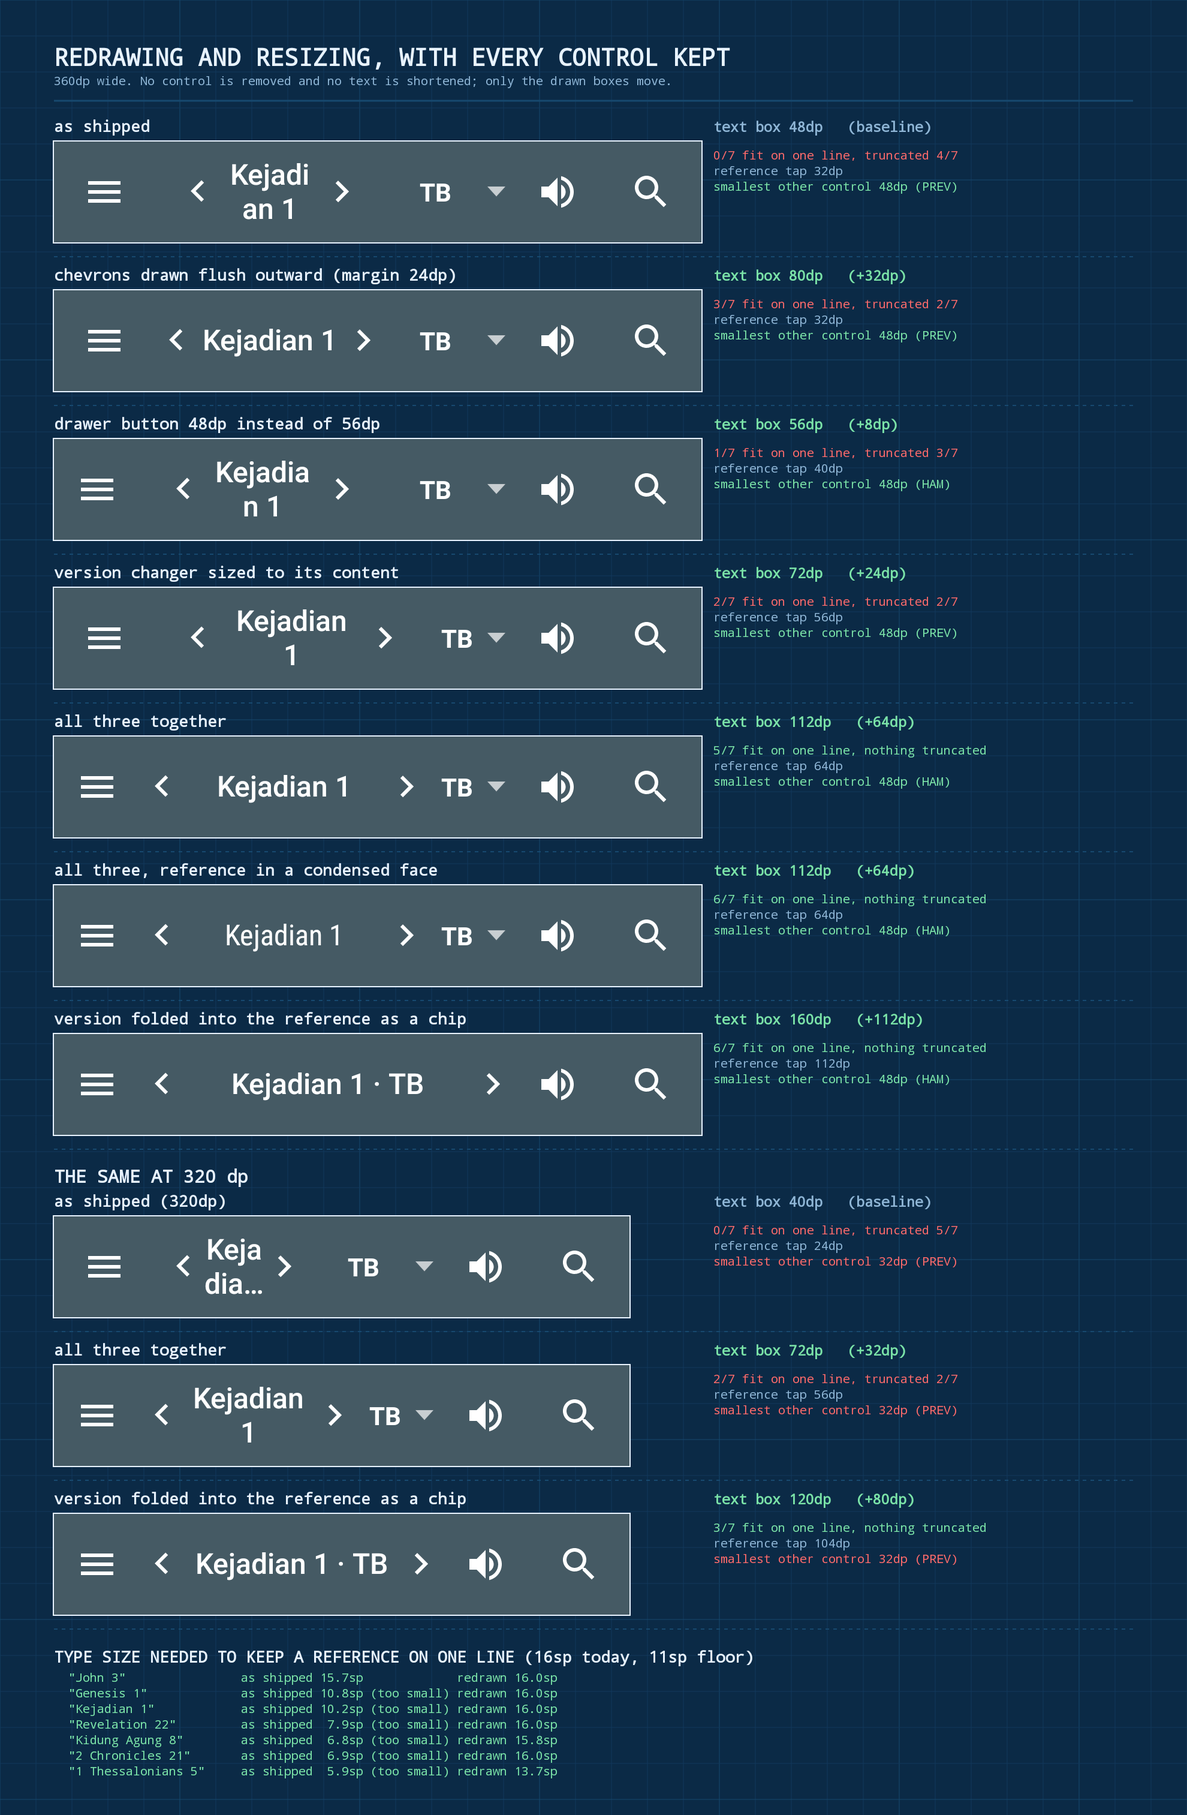
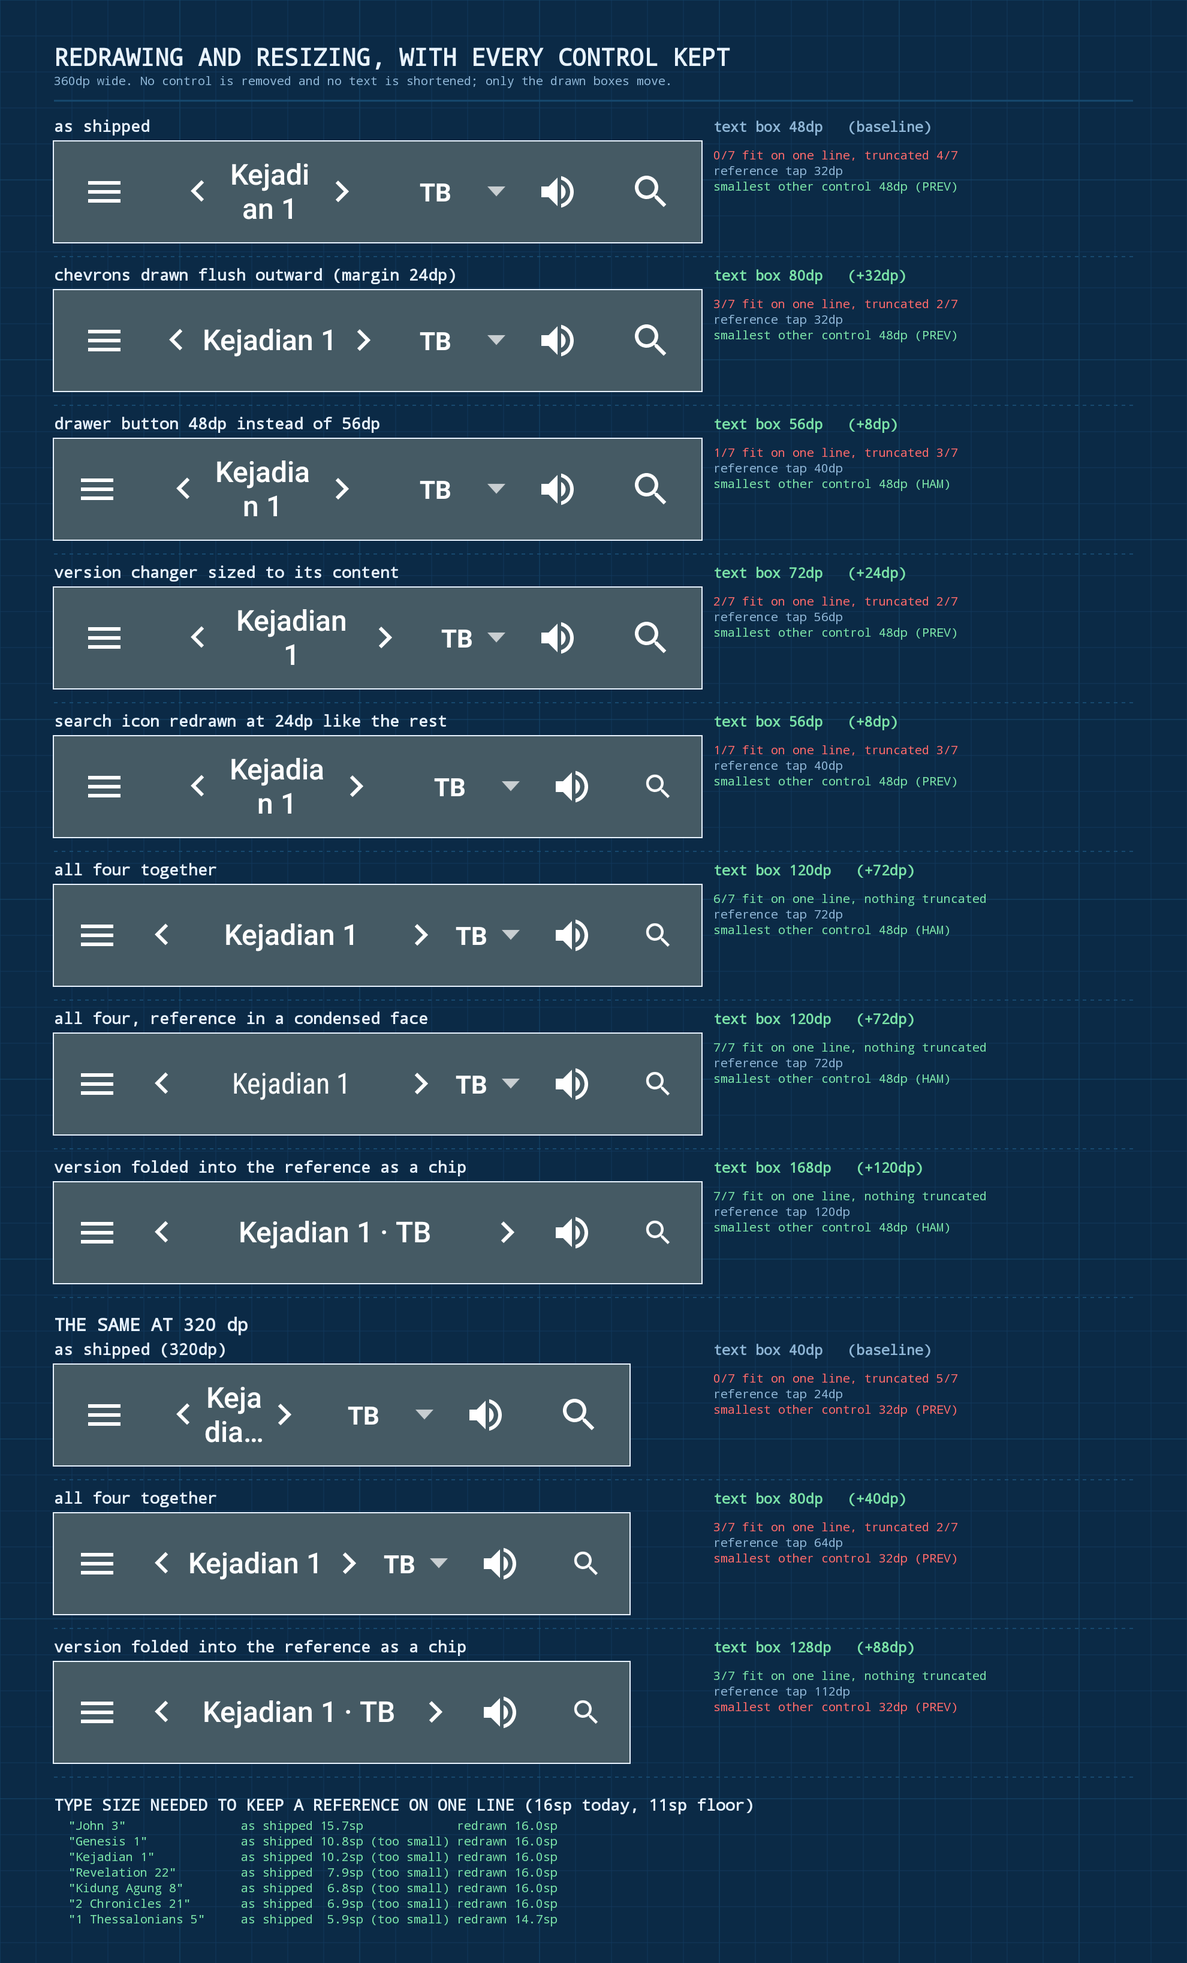
Explain the 56dp drawer and search buttons, and correct the menu finding
Both are 56dp where every other control in the bar is 48dp, for two
unrelated reasons, and neither is a design decision.

The drawer button takes its width from a literal minWidth of 56dp in
Base.Widget.AppCompat.Toolbar.Button.Navigation. It is not ?actionBarSize:
on an sw600dp screen the bar is 64dp tall and the button is still 56dp. It
wraps a 24dp icon.

The search button is wide because of its icon asset.
Widget.AppCompat.ActionButton gives an item minWidth 48dp plus 12dp of
padding per side, so an action item is max(48dp, icon + 24dp). The audio
icon is a 24dp vector and lands on 48dp; ic_menu_search is a 32dp PNG from
the pre-Material icon set and lands on 56dp. Probing with extra menu items
confirms the rule: every item with a 24dp icon is 48dp, and only the search
item is not.

This corrects the earlier claim that the action menu's extra 8dp came from
ActionMenuView rounding its cell size up into the leftover width. It does
not. The menu is exactly as wide as its items ask for, and the items are as
wide as their icons ask for.

Redrawing the search icon at 24dp is therefore worth 8dp to the reference,
measured, and it is now part of the redraw package: 48dp to 120dp of text
box at 360dp with every control at 48dp and nothing truncated.

A new test reports the widths and guards the rule that an action item is
max(48dp, icon + horizontal padding), so it stays true whichever asset
ships. The blueprint now labels each icon-driven control with its icon size.
[…]

Changed region(s): [[0.0308, 0.0, 0.801, 0.9941], [0.5854, 0.6523, 0.8318, 0.8698], [0.5545, 0.9009, 0.6162, 0.9319]]

diff --git a/Alkitab/src/test/java/yuku/alkitab/base/widget/ReaderToolbarSpaceAuditTest.kt b/Alkitab/src/test/java/yuku/alkitab/base/widget/ReaderToolbarSpaceAuditTest.kt
@@ -4,6 +4,7 @@ import android.app.Activity
 import android.graphics.Bitmap
 import android.graphics.Canvas
 import android.graphics.Color
+import android.graphics.drawable.BitmapDrawable
 import android.graphics.DashPathEffect
 import android.graphics.Paint
 import android.graphics.Path
@@ -19,6 +20,7 @@ import androidx.appcompat.app.AppCompatActivity
 import androidx.appcompat.view.menu.MenuView
 import androidx.appcompat.widget.ActionMenuView
 import androidx.appcompat.widget.Toolbar
+import androidx.core.content.ContextCompat
 import androidx.core.view.children
 import androidx.test.core.app.ApplicationProvider
 import java.io.File
@@ -213,11 +215,12 @@ class ReaderToolbarSpaceAuditTest {
         val navButton = toolbar.children.filterIsInstance<ImageButton>().firstOrNull()
         assertNotNull("the up/drawer button must be present in the toolbar", navButton)
         navButton!!
+        val navIconDp = dpStr(toolbar.navigationIcon?.intrinsicWidth ?: 0)
         slots += Slot(
             "hamburger", "HAM", "Drawer (hamburger)",
             boundsIn(toolbar, navButton), boundsIn(toolbar, navButton),
             SLOT_COLORS.getValue("hamburger"),
-            "Toolbar navigation button, 24dp icon",
+            "${navIconDp}dp icon in AppCompat's 56dp minWidth",
         )
 
         val leftRect = boundsIn(toolbar, bLeft).takeIf { bLeft.visibility != View.GONE }
@@ -278,13 +281,17 @@ class ReaderToolbarSpaceAuditTest {
                 title,
                 rect, rect,
                 SLOT_COLORS[key] ?: SLOT_COLORS.getValue("menu"),
-                "action menu item",
+                "${dpStr(iconWidthOf(child))}dp icon + 12dp padding per side",
             )
         }
 
         slots.sortBy { it.drawn.left }
         return slots
     }
+
+    /** Intrinsic width of the icon an action menu item draws. */
+    private fun iconWidthOf(child: View): Int =
+        (child as? MenuView.ItemView)?.itemData?.icon?.intrinsicWidth ?: 0
 
     private fun measurePanel(widthDp: Int, reference: String, versionInitials: String): Panel {
         RuntimeEnvironment.setQualifiers("sw${widthDp}dp-w${widthDp}dp-h640dp-port-xxhdpi")
@@ -1055,6 +1062,23 @@ class ReaderToolbarSpaceAuditTest {
         a.findViewById<TextView>(R.id.bVersion).visibility = View.GONE
     }
 
+    /**
+     * Redraws the search icon at [dpSize] so the action item stops being wider
+     * than its 48dp slot. The asset that ships is 32dp, which is where the
+     * item's extra 8dp comes from.
+     */
+    private fun resizeSearchIcon(a: ToolbarAuditHostActivity, dpSize: Int) {
+        val item = a.findViewById<Toolbar>(R.id.toolbar).menu.findItem(R.id.menuSearch) ?: return
+        val src = ContextCompat.getDrawable(a, R.drawable.ic_menu_search) ?: return
+        val full = Bitmap.createBitmap(src.intrinsicWidth, src.intrinsicHeight, Bitmap.Config.ARGB_8888)
+        src.setBounds(0, 0, src.intrinsicWidth, src.intrinsicHeight)
+        src.draw(Canvas(full))
+        val scaled = Bitmap.createScaledBitmap(full, px(dpSize), px(dpSize), true).apply {
+            density = a.resources.displayMetrics.densityDpi
+        }
+        item.icon = BitmapDrawable(a.resources, scaled)
+    }
+
     private fun condensedReference(a: ToolbarAuditHostActivity) {
         a.findViewById<GotoButton>(R.id.bGoto).typeface =
             Typeface.create("sans-serif-condensed", Typeface.NORMAL)
@@ -1064,6 +1088,7 @@ class ReaderToolbarSpaceAuditTest {
         chevronsFlush(a, 24)
         compactNavButton(a, 48)
         shrinkVersion(a, 48)
+        resizeSearchIcon(a, 24)
     }
 
     /**
@@ -1112,8 +1137,9 @@ class ReaderToolbarSpaceAuditTest {
         Mutation("chevrons drawn flush outward (margin 24dp)") { a -> chevronsFlush(a, 24) },
         Mutation("drawer button 48dp instead of 56dp") { a -> compactNavButton(a, 48) },
         Mutation("version changer sized to its content") { a -> shrinkVersion(a, 48) },
-        Mutation("all three together") { a -> spaceSavingPackage(a) },
-        Mutation("all three, reference in a condensed face") { a ->
+        Mutation("search icon redrawn at 24dp like the rest") { a -> resizeSearchIcon(a, 24) },
+        Mutation("all four together") { a -> spaceSavingPackage(a) },
+        Mutation("all four, reference in a condensed face") { a ->
             spaceSavingPackage(a); condensedReference(a)
         },
         Mutation("version folded into the reference as a chip", refs = MERGED, sample = "Kejadian 1 · TB") { a ->
@@ -1157,6 +1183,78 @@ class ReaderToolbarSpaceAuditTest {
     }
 
     @Test
+    fun `explain why the drawer and search buttons are wider than the rest`() {
+        val outputDir = resolveOutputDir()
+        outputDir.mkdirs()
+
+        RuntimeEnvironment.setQualifiers("sw360dp-w360dp-h640dp-port-xxhdpi")
+        val activity = buildHost()
+        val root = activity.findViewById<ViewGroup>(R.id.root)
+        val toolbar = activity.findViewById<Toolbar>(R.id.toolbar)
+        activity.findViewById<GotoButton>(R.id.bGoto).text = "Kejadian 1"
+        repeat(2) {
+            root.measure(
+                View.MeasureSpec.makeMeasureSpec(px(360), View.MeasureSpec.EXACTLY),
+                View.MeasureSpec.makeMeasureSpec(px(640), View.MeasureSpec.EXACTLY),
+            )
+            root.layout(0, 0, px(360), px(640))
+        }
+
+        val navButton = toolbar.children.filterIsInstance<ImageButton>().first()
+        val menuView = toolbar.children.filterIsInstance<ActionMenuView>().first()
+        val items = menuView.children.filter { it.visibility != View.GONE }.toList()
+
+        val md = buildString {
+            appendLine("# Why the drawer and search buttons are wider than the rest")
+            appendLine()
+            appendLine("Measured at 360 dp, xxhdpi.")
+            appendLine()
+            appendLine("## The drawer button")
+            appendLine()
+            appendLine(
+                "It is ${dpStr(navButton.width)} dp wide around a ${dpStr(toolbar.navigationIcon?.intrinsicWidth ?: 0)} dp icon, " +
+                    "because `Base.Widget.AppCompat.Toolbar.Button.Navigation` sets `android:minWidth` to a literal 56dp. " +
+                    "That is not `?actionBarSize`: on an sw600dp screen the bar is ${dpStr(px(64))} dp tall and the button is " +
+                    "still 56 dp. Nothing about the icon or the bar height asks for it."
+            )
+            appendLine()
+            appendLine("## The action menu items")
+            appendLine()
+            appendLine(
+                "`Widget.AppCompat.ActionButton` sets `minWidth` to 48dp and 12dp of padding on each side, so an item is " +
+                    "`max(48dp, icon + 24dp)`. An item is only wider than 48 dp when its icon asset is wider than 24 dp."
+            )
+            appendLine()
+            appendLine("| item | icon | padding | width | 48dp + what |")
+            appendLine("| --- | ---: | ---: | ---: | --- |")
+            for (item in items) {
+                val icon = iconWidthOf(item)
+                val pad = item.paddingLeft + item.paddingRight
+                val why = if (item.width > px(48)) "icon is ${dpStr(icon)}dp, over the 24dp the slot is built for" else "icon fits the 48dp minimum"
+                appendLine(
+                    "| ${(item as? MenuView.ItemView)?.itemData?.title} | ${dpStr(icon)} dp | ${dpStr(pad)} dp " +
+                        "| ${dpStr(item.width)} dp | $why |"
+                )
+            }
+        }
+        File(outputDir, "control-widths.md").writeText(md)
+        println(md)
+
+        assertEquals(
+            "the drawer button is sized by AppCompat's minWidth, not by its icon",
+            px(56),
+            navButton.width,
+        )
+        for (item in items) {
+            assertEquals(
+                "an action item is max(48dp, icon + horizontal padding)",
+                max(px(48), iconWidthOf(item) + item.paddingLeft + item.paddingRight),
+                item.width,
+            )
+        }
+    }
+
+    @Test
     fun `measure the redraws and resizes that keep every control in the bar`() {
         val outputDir = resolveOutputDir()
         outputDir.mkdirs()
@@ -1165,7 +1263,7 @@ class ReaderToolbarSpaceAuditTest {
         val baseline = variants.first().referenceBoxPx
         val narrow = measureRedraws(320, listOf(
             Mutation("as shipped (320dp)") {},
-            Mutation("all three together") { a -> spaceSavingPackage(a) },
+            Mutation("all four together") { a -> spaceSavingPackage(a) },
             Mutation("version folded into the reference as a chip", refs = MERGED, sample = "Kejadian 1 · TB") { a ->
                 spaceSavingPackage(a); foldVersionIntoReference(a)
             },
@@ -1302,10 +1400,12 @@ class ReaderToolbarSpaceAuditTest {
             appendLine("## The action menu's floor")
             appendLine()
             appendLine(
-                "The action menu takes ${dpStr(naturalMenuPx)} dp when left alone. Forcing it narrower " +
-                    "demotes an item rather than tightening the cells: the narrowest exact width that still " +
-                    "leaves every item at ${MIN_TOUCH_DP.toInt()} dp is ${dpStr(narrowestMenuPx)} dp. Those spare " +
-                    "dp are not recoverable by resizing `ActionMenuView`."
+                "The action menu takes ${dpStr(naturalMenuPx)} dp for its two items, and forcing " +
+                    "`ActionMenuView` narrower demotes an item rather than tightening it: the narrowest exact " +
+                    "width that still leaves every item at ${MIN_TOUCH_DP.toInt()} dp is ${dpStr(narrowestMenuPx)} dp. " +
+                    "That floor is set by the icons, not by the menu. `Widget.AppCompat.ActionButton` makes an item " +
+                    "`max(48dp, icon + 24dp)`, and the search asset is 32dp where the audio asset is 24dp. Redrawing " +
+                    "the search icon at 24dp moves the floor to 96 dp; see control-widths.md."
             )
             appendLine()
             appendLine("## Type size needed to keep a reference on one line")
@@ -1326,7 +1426,7 @@ class ReaderToolbarSpaceAuditTest {
         File(outputDir, "redraws.md").writeText(md)
         println(md)
 
-        val packaged = variants.first { it.name == "all three together" }
+        val packaged = variants.first { it.name == "all four together" }
         assertTrue(
             "redrawing alone must widen the reference",
             packaged.referenceBoxPx > baseline,

diff --git a/docs/reports/toolbar-audit/README.md b/docs/reports/toolbar-audit/README.md
@@ -26,8 +26,9 @@ Measurements are taken at xxhdpi so 1 dp is exactly 3 px.
 ./gradlew :Alkitab:testPlainDebugUnitTest --tests "yuku.alkitab.base.widget.ReaderToolbarSpaceAuditTest"
 ```
 
-The run writes `blueprint.png`, `options.png`, `toolbar-<width>dp.png`,
-`measurements.md`, `measurements.json` and `options.md` under
+The run writes `blueprint.png`, `options.png`, `redraws.png`,
+`toolbar-<width>dp.png`, `measurements.md`, `measurements.json`, `options.md`,
+`redraws.md` and `control-widths.md` under
 `Alkitab/build/reports/toolbar-audit/`. Set `TOOLBAR_AUDIT_DIR` to write
 somewhere else.
 
@@ -87,9 +88,9 @@ Bar 360 x 56. prev/next 48, goto side margin 40, nav cluster 128.
 | 600 | 250 | 170 | 154 | 118 |
 
 Everything other than the reference is a constant across widths: 56 for the
-drawer, 48 + 48 for the arrows, 72 for the version changer, 104 for the action
-menu. The reference is the only element that absorbs the difference, in both
-directions.
+drawer, 48 + 48 for the arrows, 72 for the version changer, 48 + 56 for the
+action menu. The reference is the only element that absorbs the difference, in
+both directions.
 
 ### How much reference text fits
 
@@ -146,11 +147,24 @@ minimum. The fixed chrome simply does not fit in 320 dp.
 version needs, and is still 1 dp short of the six-character worst case that
 `Version.getInitials` can produce.
 
-**7. The action menu takes 104 dp for two 48 dp icons.** `Toolbar` measures the
-`ActionMenuView` before the custom children, and `ActionMenuView` rounds its
-cell size up to absorb the space left over after the navigation button. The
-extra 8 dp therefore comes out of the reference's budget rather than out of the
-bar's slack.
+**7. The drawer and search buttons are 56 dp for two unrelated reasons, and
+neither of them is a design decision.** Every other control in the bar is
+48 dp.
+
+The drawer button takes its width from
+`Base.Widget.AppCompat.Toolbar.Button.Navigation`, which sets `android:minWidth`
+to a literal `56dp`. It is not `?actionBarSize`: on an sw600dp screen the bar is
+64 dp tall and the button is still 56 dp. It wraps a 24 dp icon, so 32 dp of it
+is padding.
+
+The search button is 56 dp because of its icon asset.
+`Widget.AppCompat.ActionButton` gives an item `minWidth` 48 dp and 12 dp of
+padding per side, so an action item is `max(48dp, icon + 24dp)`. The audio icon
+is a 24 dp vector and lands on 48 dp. `ic_menu_search` is a 32 dp PNG, a
+leftover from the pre-Material menu icon set, so it lands on 56 dp. That is also
+why the magnifier is visibly larger than the speaker in the renders above. Any
+action item with a 24 dp icon is 48 dp; the search item is the only one in the
+app that is not.
 
 **8. Above 480 dp the bar stops using the space it has.** `NavFrameLayout`
 caps itself at 250 dp of screen density. At 600 dp that leaves 118 dp of bar
@@ -203,12 +217,13 @@ boxes, keeping all seven controls, the full book name and 16 sp type?
 | chevrons drawn flush outward | 80 dp | +32 dp | 32 dp | 48 dp | 3/7 | 2/7 |
 | drawer button 48 dp instead of 56 dp | 56 dp | +8 dp | 40 dp | 48 dp | 1/7 | 3/7 |
 | version changer sized to its content | 72 dp | +24 dp | 56 dp | 48 dp | 2/7 | 2/7 |
-| **all three together** | **112 dp** | **+64 dp** | **64 dp** | **48 dp** | 5/7 | **0/7** |
-| all three, condensed face | 112 dp | +64 dp | 64 dp | 48 dp | 6/7 | **0/7** |
-| version folded into the reference as a chip | 160 dp | +112 dp | 112 dp | 48 dp | 6/7 | **0/7** |
+| search icon redrawn at 24 dp | 56 dp | +8 dp | 40 dp | 48 dp | 1/7 | 3/7 |
+| **all four together** | **120 dp** | **+72 dp** | **72 dp** | **48 dp** | 6/7 | **0/7** |
+| all four, condensed face | 120 dp | +72 dp | 72 dp | 48 dp | 7/7 | **0/7** |
+| version folded into the reference as a chip | 168 dp | +120 dp | 120 dp | 48 dp | 7/7 | **0/7** |
 
-At 320 dp the same three changes take the reference from 40 dp to 72 dp and
-truncations from 5/7 to 2/7; with the version folded in, from 40 dp to 120 dp
+At 320 dp the same four changes take the reference from 40 dp to 80 dp and
+truncations from 5/7 to 2/7; with the version folded in, from 40 dp to 128 dp
 and nothing truncates.
 
 ### The techniques
@@ -221,9 +236,16 @@ instead of 40 dp. The arrows keep their full 48 dp rectangles, so nothing
 changes for touch at all, and the glyphs and the text still do not overlap.
 This is the 8 dp overlap the layout already uses, taken to its limit.
 
-**Drawer button 48 dp instead of 56 dp (+8 dp).** The navigation button is
-sized by `?actionBarSize`, not by its 24 dp icon. A 48 dp button with
-`contentInsetStartWithNavigation` lowered to match is still a compliant target.
+**Drawer button 48 dp instead of 56 dp (+8 dp).** Its width comes from a
+literal `minWidth` of 56 dp in AppCompat's navigation-button style, not from its
+24 dp icon and not from the bar height. A 48 dp button, with
+`contentInsetStartWithNavigation` lowered to match, is still a compliant target
+and matches every other control in the bar.
+
+**Search icon redrawn at 24 dp (+8 dp).** `ic_menu_search` is a 32 dp PNG from
+the pre-Material icon set, and an action item is `max(48dp, icon + 24dp)`, so it
+alone is 56 dp. A 24 dp asset makes it 48 dp like the rest, and makes the
+magnifier match the speaker optically.
 
 **Version changer sized to its content (+24 dp).** `wrap_content` with a 48 dp
 floor and a ceiling for the six-character worst case, instead of a flat 72 dp.
@@ -247,22 +269,23 @@ which is why auto-sizing on its own is not a fix.
 
 ### What is not recoverable this way
 
-The action menu's 104 dp for two 48 dp icons is its floor. Forcing
-`ActionMenuView` narrower demotes an item rather than tightening its cells: the
-narrowest exact width that still leaves both items at 48 dp is 104 dp. Those
-8 dp only come back by replacing the action menu with a custom container for
-the trailing icons, which is a lot of machinery for 8 dp.
+The action menu cannot be squeezed from the outside. Forcing `ActionMenuView`
+narrower than the width its items ask for demotes an item rather than tightening
+it, so the menu's width is whatever the icons demand: 104 dp today, 96 dp once
+the search asset is 24 dp. Past that, a 48 dp item with a 24 dp icon is already
+at the minimum touch target, and there is nothing left to take.
 
 ## Suggestions
 
 In the order they are worth doing.
 
-**0. Do the three redraws first.** Chevrons flush outward, a 48 dp drawer
-button and a content-sized version changer take the reference from 48 dp to
-112 dp at 360 dp, remove every truncation, and raise the reference's own touch
-area from 32 dp to 64 dp, without removing a control, shortening a name or
-shrinking the type. Nothing else on this list has that ratio of gain to
-behaviour change, and it makes the rest optional rather than necessary.
+**0. Do the four redraws first.** Chevrons flush outward, a 48 dp drawer
+button, a content-sized version changer and a 24 dp search icon take the
+reference from 48 dp to 120 dp at 360 dp, remove every truncation, and raise the
+reference's own touch area from 32 dp to 72 dp, without removing a control,
+shortening a name or shrinking the type. They also make every control in the bar
+48 dp, which it is not today. Nothing else on this list has that ratio of gain
+to behaviour change, and it makes the rest optional rather than necessary.
 
 **A. Fall back to `Book.abbreviation` when the full name does not fit.** Every
 `Book` already carries an `abbreviation` (`BookNameSorter` and the goto dialer
@@ -307,9 +330,10 @@ restrict split candidates to space positions and, when no space split fits,
 keep one line and ellipsize (or auto-size the text down) instead of cutting a
 word in half.
 
-**H. Leave the action menu alone.** Its 104 dp is a floor, not slack: forcing
-`ActionMenuView` narrower demotes an item. The 8 dp only comes back with a
-custom trailing-icon container, which is not worth it on its own.
+**H. Ship `ic_menu_search` at 24 dp.** It is the only action icon in the app
+that is not 24 dp, and it is what makes the search button 56 dp rather than
+48 dp. Part of the redraw package in suggestion 0, and worth doing on its own
+for the optical mismatch alone.
 
 Suggestion 0 is the one to do first, and on its own it removes every truncation
 at 360 dp with nothing taken away from the user. A is the cheapest complement
